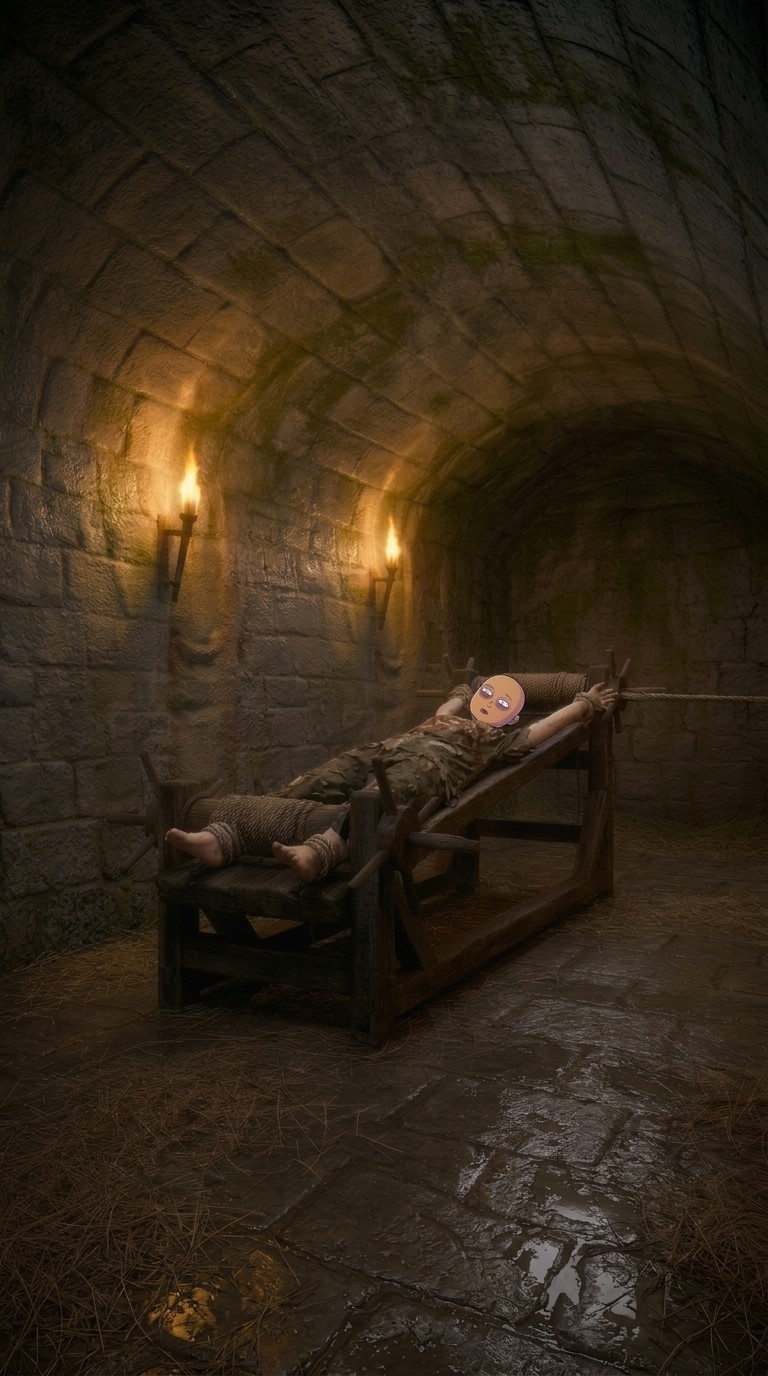
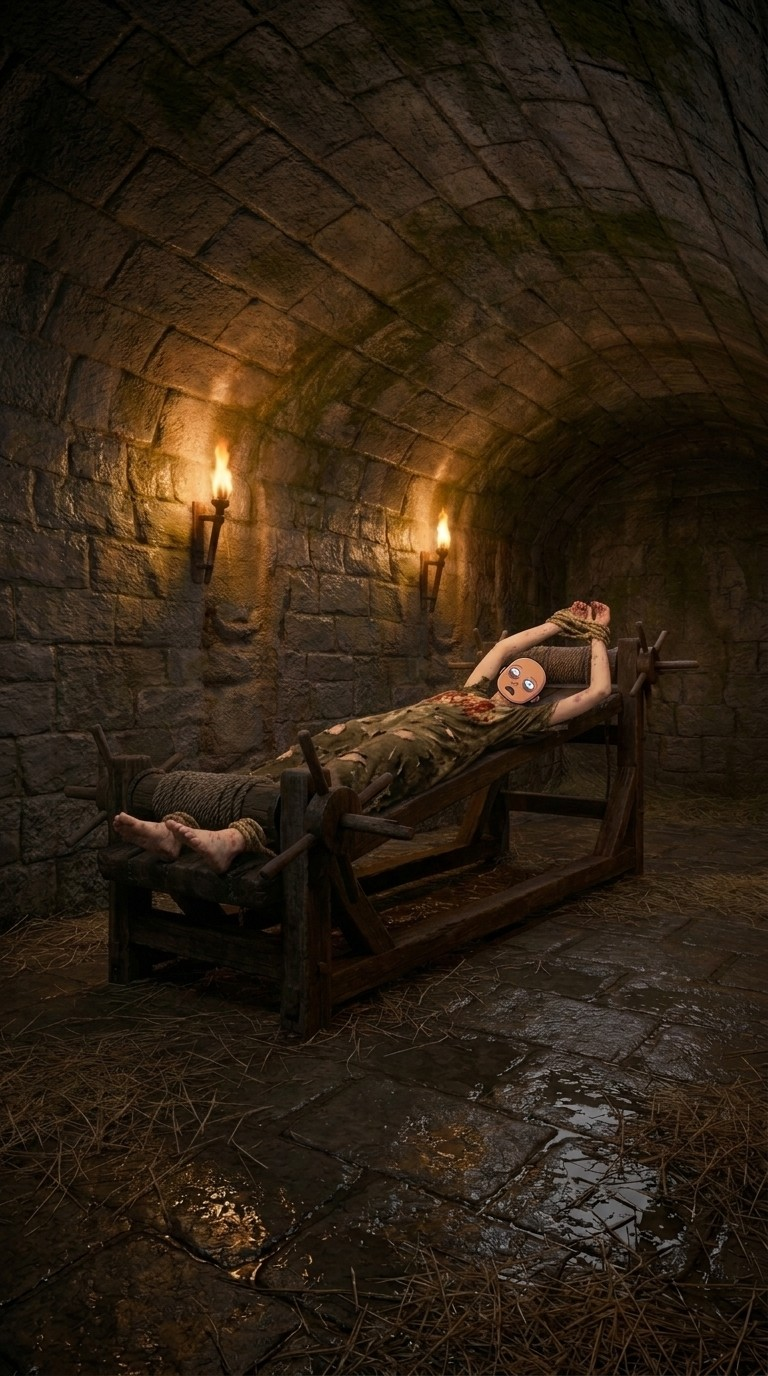
Ведьма, сцена 8: кадр «она на дыбе» переделан чётким; правило про правки поверх правок
Claude-Session: https://claude.ai/code/session_01X5cazFmjgEFLrWxdgtfGhn

diff --git a/shorts-2-5d/videos/02-vedma/README.md b/shorts-2-5d/videos/02-vedma/README.md
@@ -268,7 +268,7 @@ _По его кадрам Колизея (`ref-kolizey/kolizey-12.png`, `kolizey
 | Она обвисла на цепи (голова вниз, руки на цепи) в кадре 7 | генерация в кадре `7-v-cepyah` | готово 2026-10-22, `kadry/8-obvisla-na-cepi.webp` |
 | Часы | настенные из сцены 7, над решёткой | готово (в кадре `7-konec-sceny`) |
 | Фон: пыточная в подвале ратуши, дыба с двумя воротами, пустая | генерация | готово 2026-10-22, `kadry/8-fon-pytochnaya.jpg` (вид наискосок, ворота со спицами, голова - на дальнем высоком конце) |
-| Она лежит на дыбе: руки за головой, верёвки на запястьях и лодыжках, та же рубаха, лысая, точки от игл | генерация в фоне пыточной | черновик `kadry/8-na-dybe.jpg` размыт (правка поверх правки) - переделать одной генерацией с чистого фона |
+| Она лежит на дыбе: руки за головой, верёвки на запястьях и лодыжках, та же рубаха, лысая, точки от игл | генерация в фоне пыточной | готово 2026-10-22, `kadry/8-na-dybe.jpg` (одной генерацией с чистого фона) |
 | Двое стражников затягивают узлы у рук и у ног (те же стражники, что в сцене 7) | генерация в кадре с ней на дыбе | ? |
 | Палач у ворота у её головы, руки на рукояти (тот же палач, что в `kadry/6-palach-britva-igla.webp`) | генерация в кадре с ней на дыбе | ? |
 | Крутит головой «нет»: голова влево, голова вправо | генерация в кадре `7-v-cepyah` | готово 2026-10-22, `kadry/8-net-golova-vlevo.jpg`, `8-net-golova-vpravo.jpg` |

diff --git a/shorts-2-5d/style.md b/shorts-2-5d/style.md
@@ -14,3 +14,4 @@
 
 Дописывать сюда: шрифты, цвета, пропорции лиц - по мере того как
 утверждаете с Викой.
+- Кадр генерировать одной генерацией с чистого фона, не правкой поверх правки: каждая правка размывает картинку. В промпте прямо писать «сохрани размер и кадр первой картинки, 9:16, ничего не обрезай» - иначе генератор режет до 3:4 (2026-10-22).
